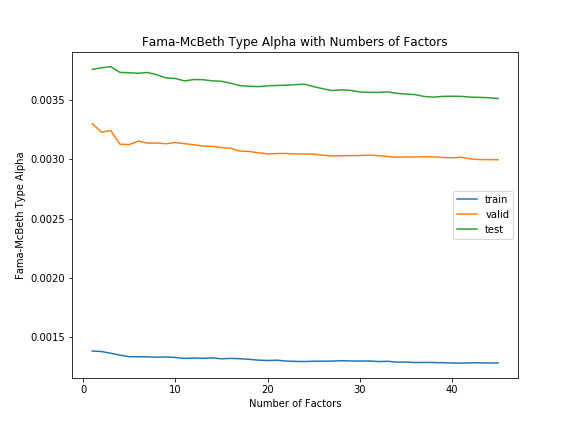
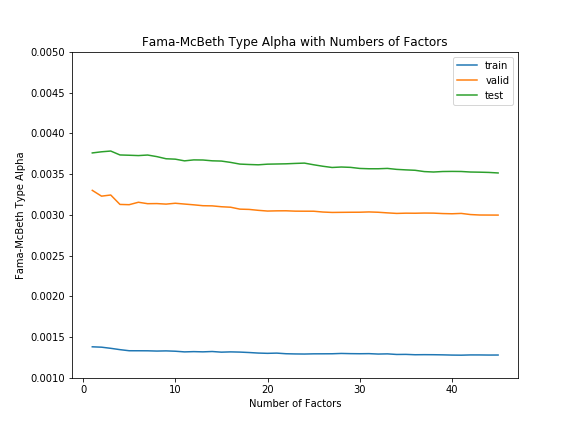
plot

diff --git a/src/utils.py b/src/utils.py
@@ -61,6 +61,7 @@ def plotStatistics(nFactors, SR, UV, Alpha, Alpha_weighted, plotPath=None, figsi
 	plt.plot(nFactors, SR[0], label='train')
 	plt.plot(nFactors, SR[1], label='valid')
 	plt.plot(nFactors, SR[2], label='test')
+	plt.ylim(0.0,3.0)
 	plt.xlabel('Number of Factors')
 	plt.ylabel('Sharpe Ratio')
 	plt.legend()
@@ -73,6 +74,7 @@ def plotStatistics(nFactors, SR, UV, Alpha, Alpha_weighted, plotPath=None, figsi
 	plt.plot(nFactors, UV[0], label='train')
 	plt.plot(nFactors, UV[1], label='valid')
 	plt.plot(nFactors, UV[2], label='test')
+	plt.ylim(0.5,1.0)
 	plt.xlabel('Number of Factors')
 	plt.ylabel('Unexplained Variation')
 	plt.legend()
@@ -85,6 +87,7 @@ def plotStatistics(nFactors, SR, UV, Alpha, Alpha_weighted, plotPath=None, figsi
 	plt.plot(nFactors, Alpha[0], label='train')
 	plt.plot(nFactors, Alpha[1], label='valid')
 	plt.plot(nFactors, Alpha[2], label='test')
+	plt.ylim(0.001,0.005)
 	plt.xlabel('Number of Factors')
 	plt.ylabel('Fama-McBeth Type Alpha')
 	plt.legend()
@@ -97,6 +100,7 @@ def plotStatistics(nFactors, SR, UV, Alpha, Alpha_weighted, plotPath=None, figsi
 	plt.plot(nFactors, Alpha_weighted[0], label='train')
 	plt.plot(nFactors, Alpha_weighted[1], label='valid')
 	plt.plot(nFactors, Alpha_weighted[2], label='test')
+	plt.ylim(0.0,0.0006)
 	plt.xlabel('Number of Factors')
 	plt.ylabel('Fama-McBeth Type Alpha (Weighted)')
 	plt.legend()
